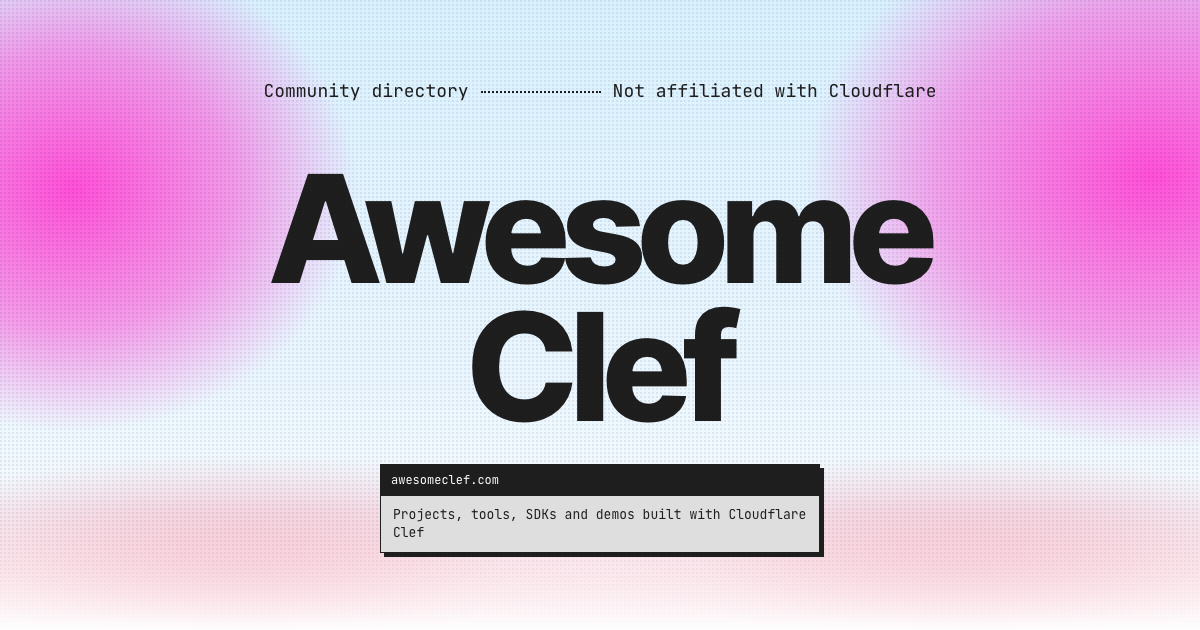
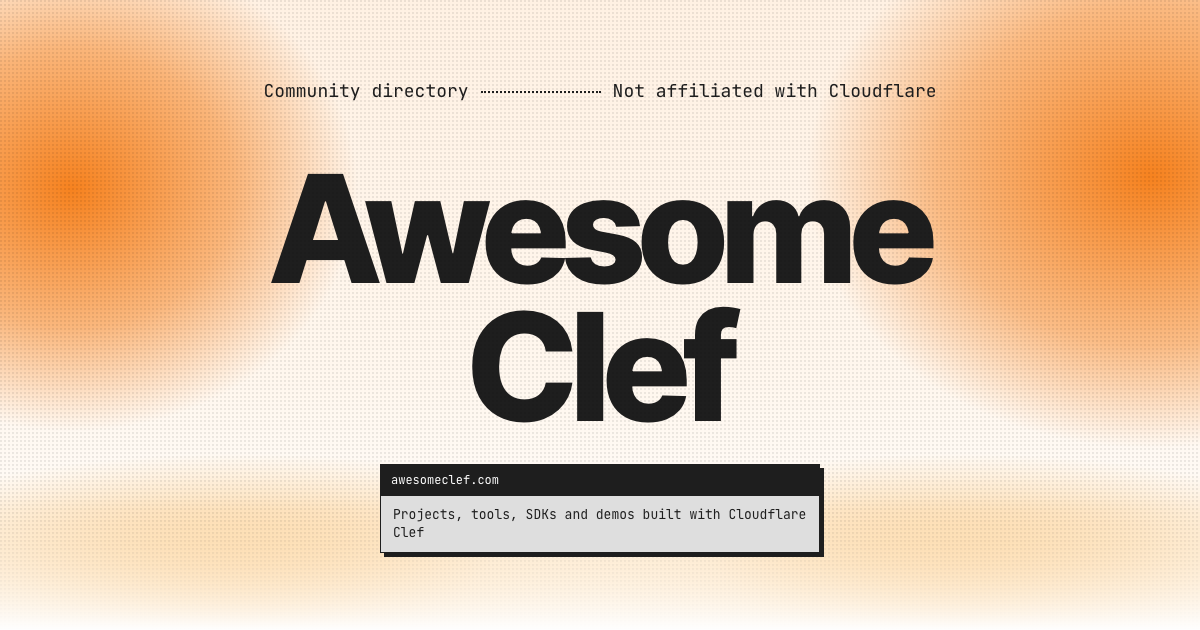
Cloudflare orange/amber palette on the awesome-jev layout
Same layout and CSS as upstream; only the gradient/accent tokens change from
pink/sky to Cloudflare orange/amber. OG image and favicon follow.

Claude-Session: https://claude.ai/code/session_01H1SQYE7qbb8CzzEivXJYCy

diff --git a/site/styles.css b/site/styles.css
@@ -4,10 +4,10 @@
   --gray-1: #dedede;
   --gray-2: #c4c4c4;
   --gray-3: #7a7a7a;
-  --pink: #f386a1;
-  --pink-hot: #ff4fd8;
-  --magenta: #d45bb6;
-  --sky: #d9f1ff;
+  --pink: #fbad41;      /* Cloudflare amber (was pink) */
+  --pink-hot: #f6821f;  /* Cloudflare orange (was hot pink) */
+  --magenta: #e5620a;   /* deep orange (was magenta) */
+  --sky: #fff1e3;       /* warm cream (was sky) */
   --teal: #09aea1;
 
   --display: 'Inter Tight', 'Inter', system-ui, sans-serif;
@@ -80,11 +80,11 @@ code { font-size: 0.92em; background: var(--gray-1); padding: 0 4px; }
   justify-content: center;
   overflow: hidden;
   background:
-    radial-gradient(ellipse 34% 55% at 6% 30%, var(--pink-hot) 0%, rgba(255,79,216,0.55) 40%, rgba(255,79,216,0) 70%),
-    radial-gradient(ellipse 40% 60% at 96% 28%, var(--pink-hot) 0%, rgba(255,79,216,0.5) 45%, rgba(255,79,216,0) 72%),
-    radial-gradient(ellipse 60% 40% at 20% 100%, var(--pink) 0%, rgba(243,134,161,0) 70%),
-    radial-gradient(ellipse 60% 40% at 80% 100%, var(--pink) 0%, rgba(243,134,161,0) 70%),
-    linear-gradient(180deg, var(--sky) 0%, #eaf6ff 60%, var(--paper) 100%);
+    radial-gradient(ellipse 34% 55% at 6% 30%, var(--pink-hot) 0%, rgba(246,130,31,0.55) 40%, rgba(246,130,31,0) 70%),
+    radial-gradient(ellipse 40% 60% at 96% 28%, var(--pink-hot) 0%, rgba(246,130,31,0.5) 45%, rgba(246,130,31,0) 72%),
+    radial-gradient(ellipse 60% 40% at 20% 100%, var(--pink) 0%, rgba(251,173,65,0) 70%),
+    radial-gradient(ellipse 60% 40% at 80% 100%, var(--pink) 0%, rgba(251,173,65,0) 70%),
+    linear-gradient(180deg, var(--sky) 0%, #fff7ee 60%, var(--paper) 100%);
 }
 .hero::before {
   content: "";
